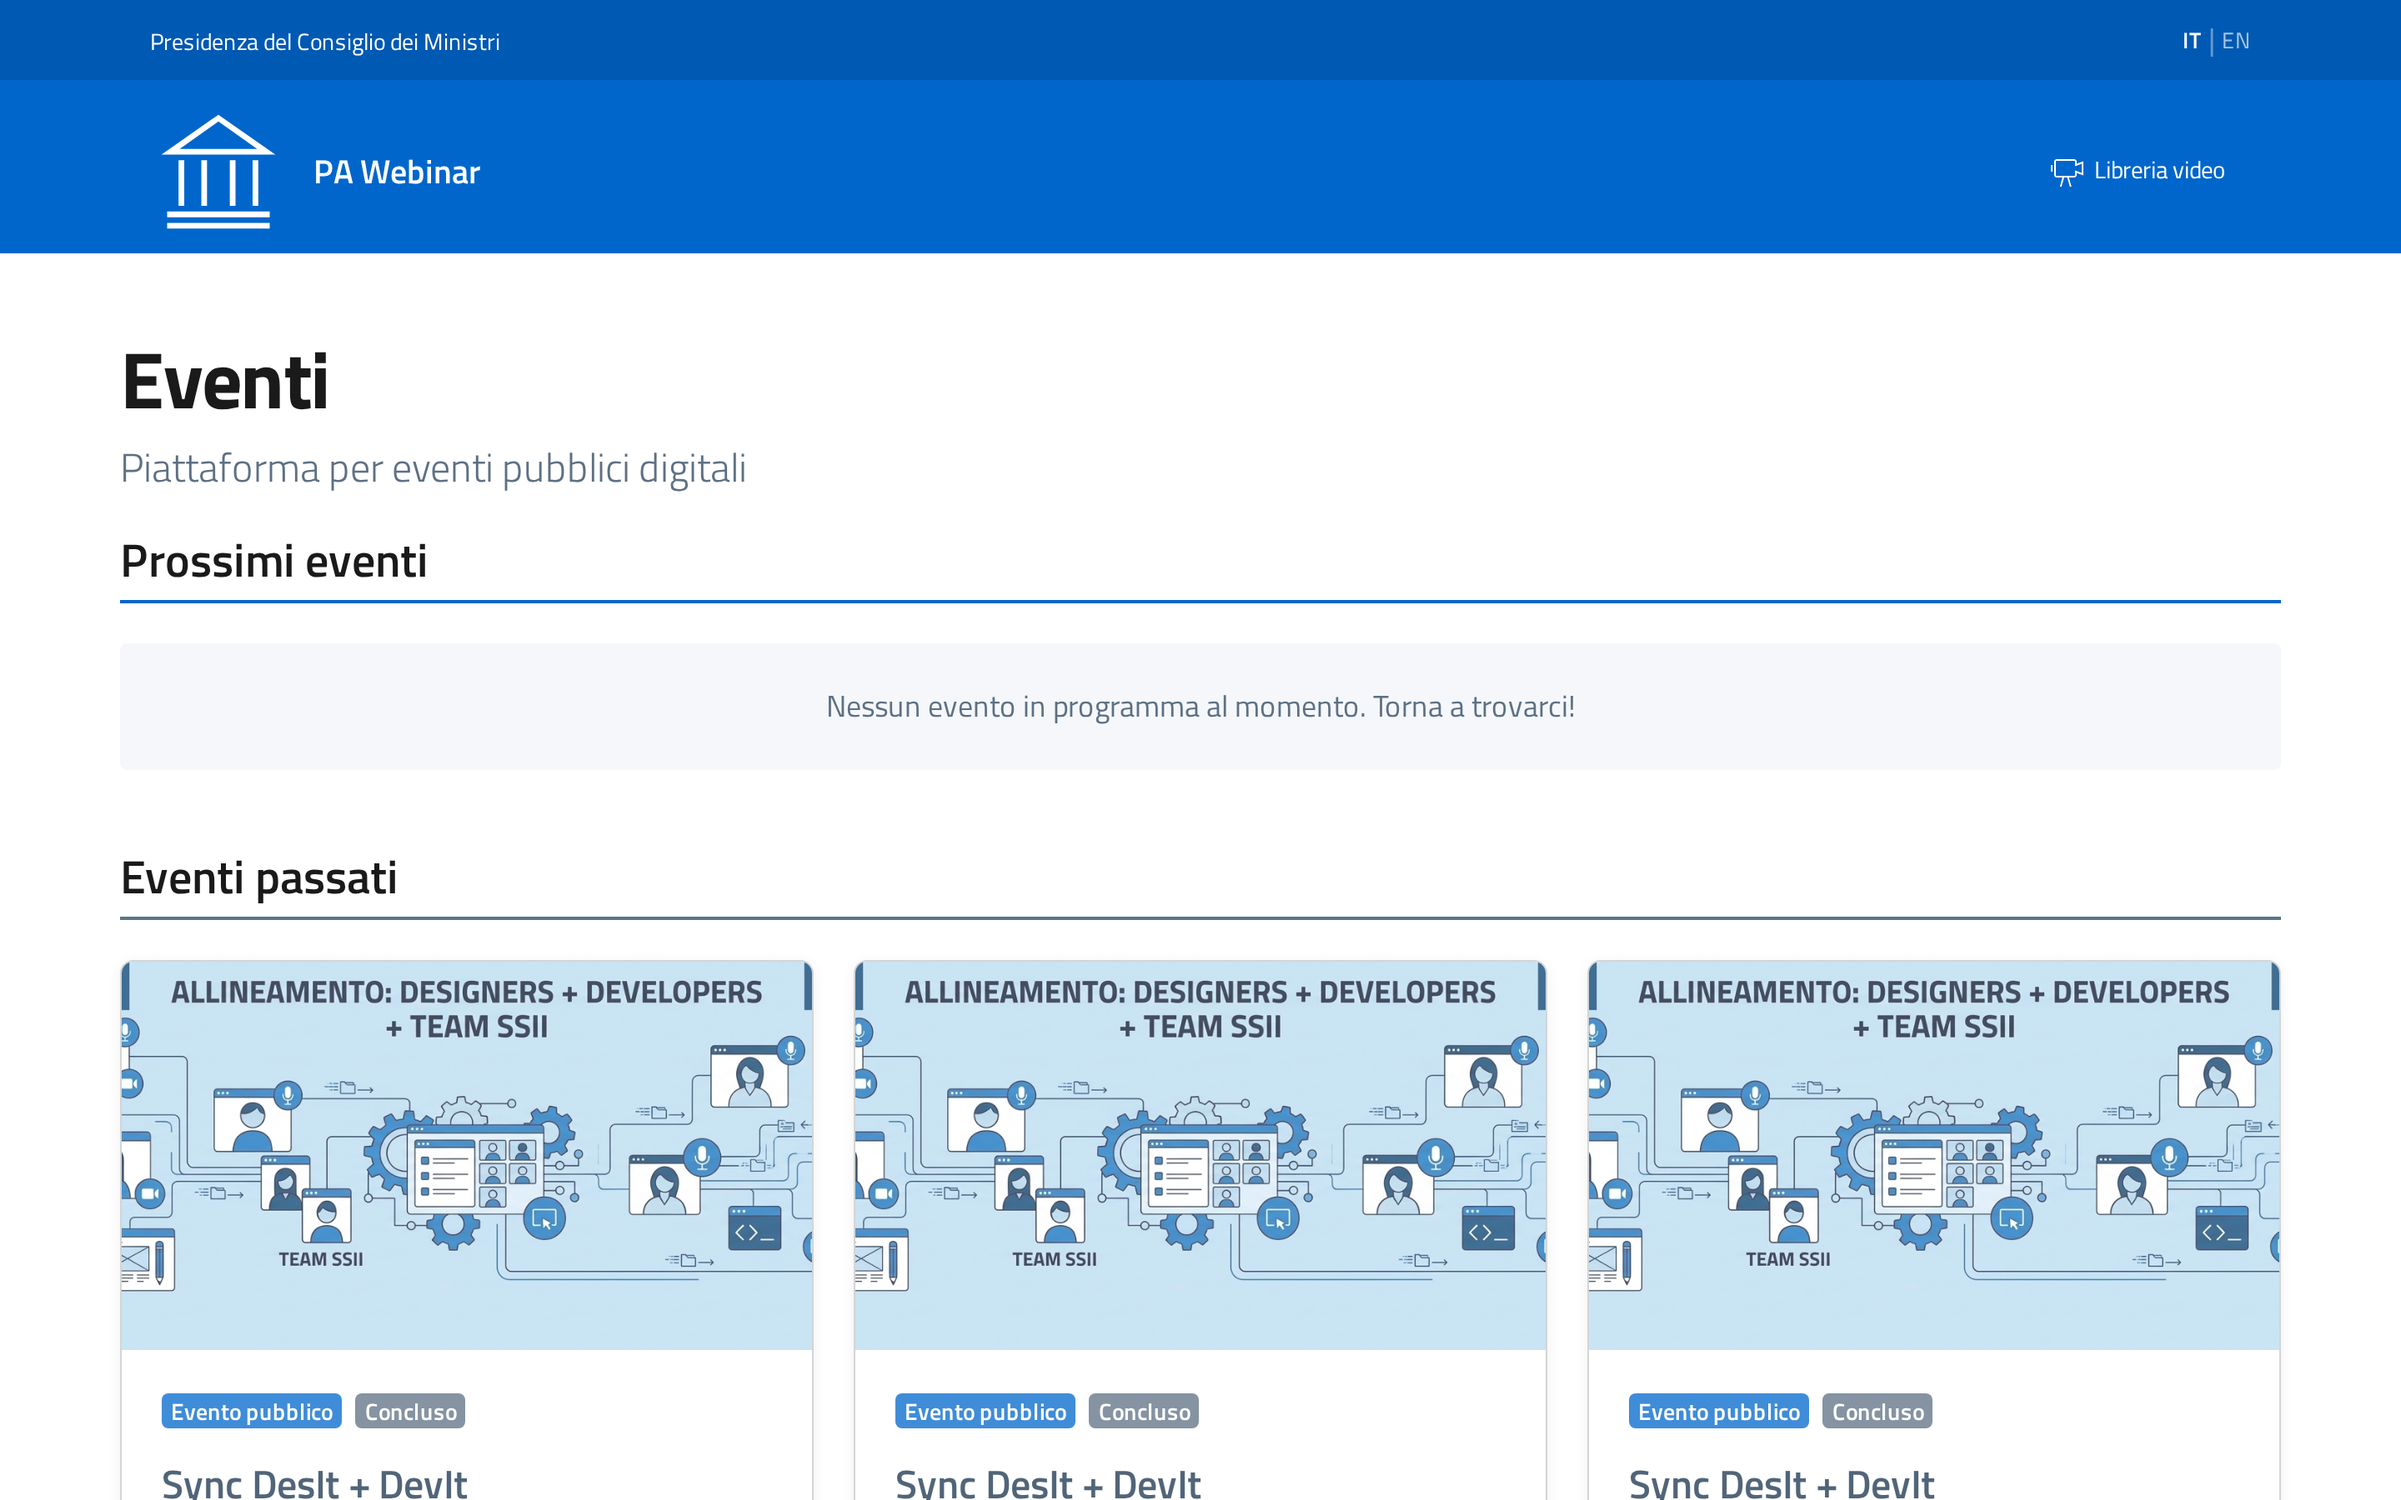
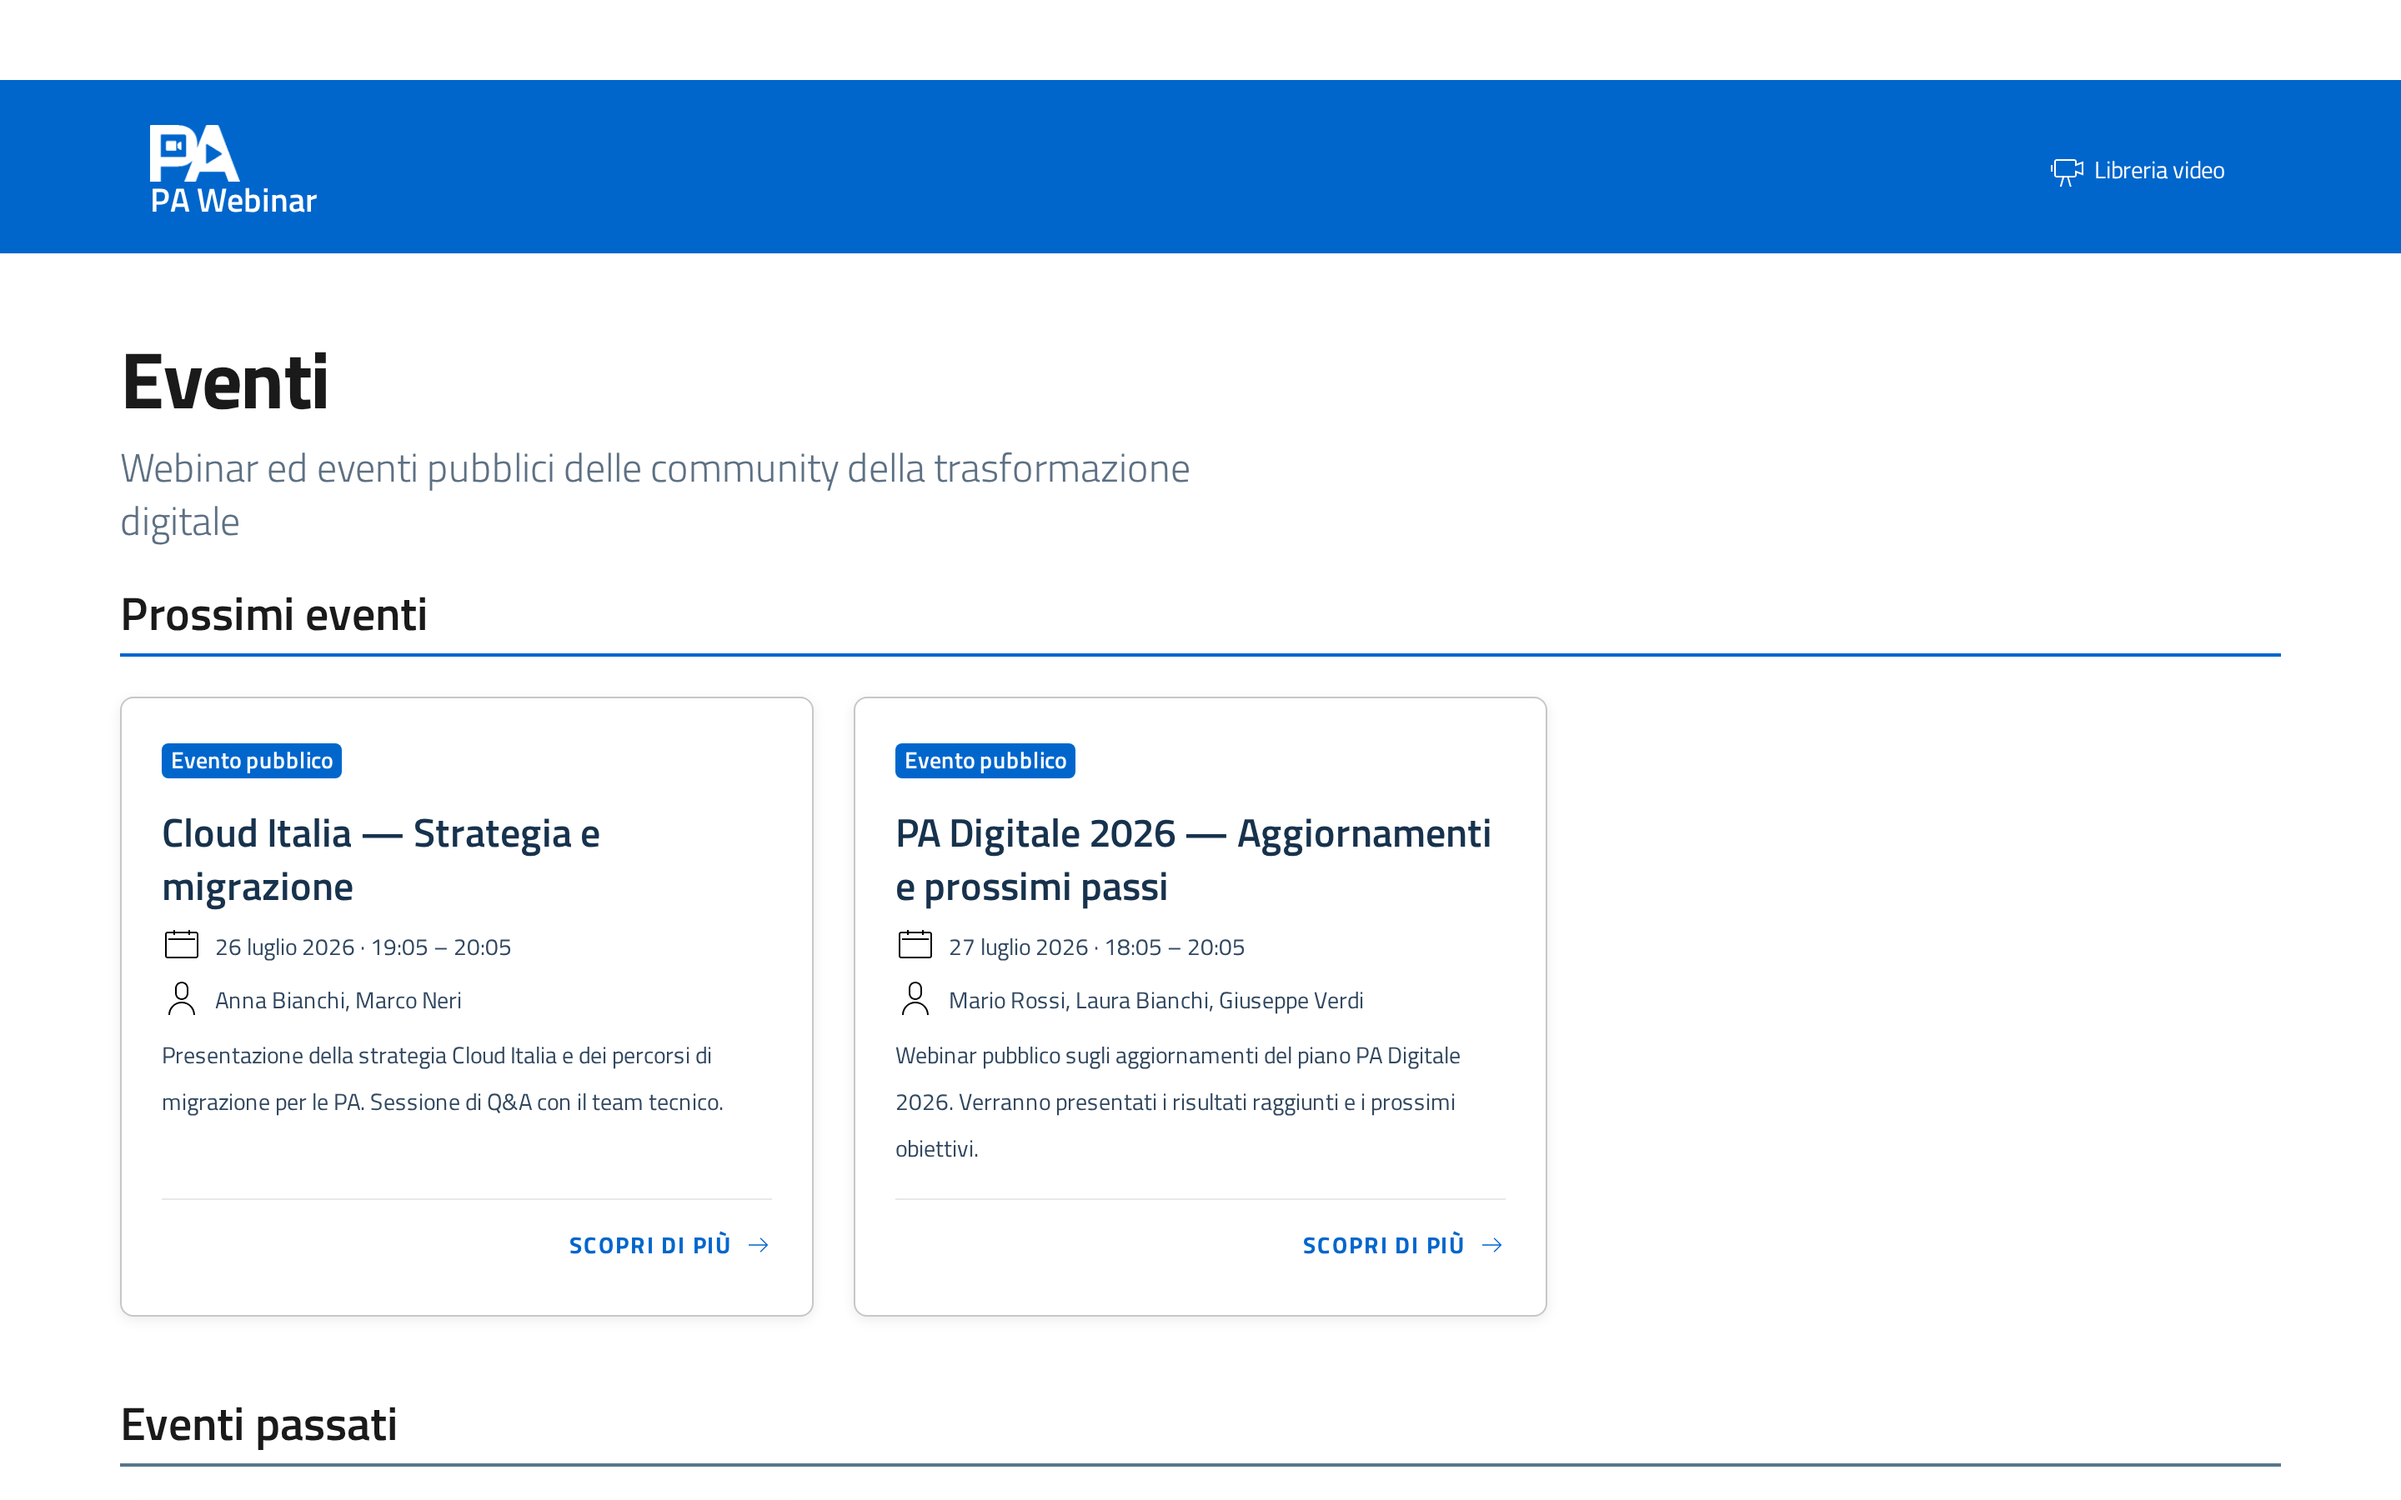
docs: screenshot del README su dati dimostrativi
`events.png` mostrava tre card identiche con il nome di una riunione interna e
nessun evento in programma: era la vetrina peggiore possibile per un repo a
riuso. Rifatta con il seed (`npm run db:seed`), che porta eventi e relatori
fittizi. Rifatta anche `home.png`, ferma al brand precedente.

Le altre restano: `changelog`, `status` e `service-inventory` non mostrano dati
di evento, e `video-library` resta quella committata perche' il seed non crea
una registrazione pubblicata — rifarla oggi darebbe una pagina vuota con meta'
schermata bianca, peggio dell'attuale.

In ROADMAP la riga sugli screenshot diceva "schermate reali dell'istanza in
produzione": ora dice come si rifanno e su quali dati.

Verificato: le due immagini sono state riguardate una per una prima del commit
(2880x1800 come le precedenti). Nessun altro job in perimetro: sono asset
binari e una riga di documentazione.

diff --git a/docs/ROADMAP.md b/docs/ROADMAP.md
@@ -31,7 +31,7 @@ Il changelog resta l'unica fonte di verità su cosa è stato rilasciato e quando
 | Evento pilota interno | ✅ fatto |
 | Ritocco testi e layout | ✅ in gran parte |
 | Test E2E Playwright (batteria flussi critici) | 🟡 parziale (un solo file, `continue-on-error`) — vedi "Prossimo" |
-| Screenshot per README | ✅ fatto — schermate reali dell'istanza in produzione in `docs/screenshots/`, referenziate da README, README.en e `publiccode.yml` |
+| Screenshot per README | ✅ fatto — schermate in `docs/screenshots/`, referenziate da README, README.en e `publiccode.yml`. Da rifare quando cambia la UI, su dati dimostrativi (`npm run db:seed`), mai su dati di un'istanza reale |
 
 Flussi critici Playwright ancora da coprire: login admin + creazione + pubblicazione evento, ingresso sala (moderatore + partecipante), Q&A (invio/upvote/moderazione), polling, cambio lingua senza reload, GDPR cleanup, download `.ics`, responsive mobile, chat in-app real-time multi-pod.
 
